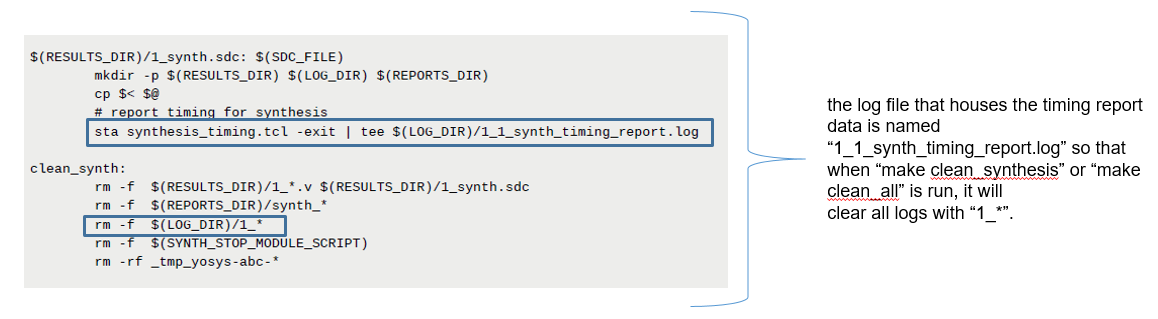
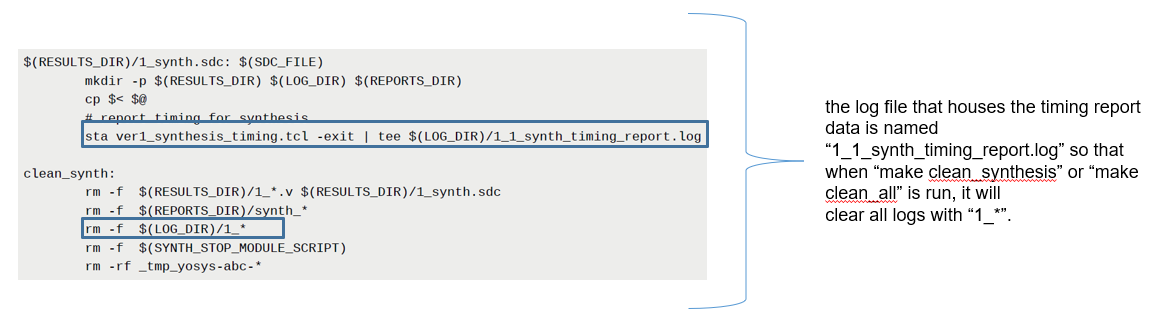
final submit

diff --git a/README.md b/README.md
@@ -74,12 +74,12 @@ After synthesis generate reports using:
 # form flow directory
 source ../setup_env.sh
 sta
-source scripts/ver1_synthesis_timing.tcl
+source ver1_synthesis_timing.tcl
 ````
 Script description:
-
+`flow/scripts/ver1_synthesis_timing.tcl` used in this version:
 ![plot](./readme_images/3.PNG)
-
+`flow/scripts/report_metrics_synthesis.tcl` which was modified to work with **OpenSTA**:
 ![plot](./readme_images/4.PNG)
 
 &nbsp;
@@ -113,7 +113,11 @@ Make synth
 ````
 Script description:
 
+* `flow/scripts/report_metrics.tcl` modifications to ensure it works for all physical design stages:
+
 ![plot](./readme_images/5.PNG)
+
+* `flow/Makefile` modifications done to ensure synthesis report are generated through make flow:
 
 ![plot](./readme_images/6.PNG)
 
@@ -147,11 +151,19 @@ source $source_tool >/dev/null
 ````
 Script description:
 
+* `flow/scripts/synthesis_timing.tcl` used to generate timing reports for synthesis stage in this version:
+
 ![plot](./readme_images/7.PNG)
 
+* `flow/Makefile` modifications to include the new `synthesis_timing.tcl and also remove hardcoded locations:
+ 
 ![plot](./readme_images/dynamic_make.PNG)
 
+* `~/.bashrc` modifications for local machine:
+
 ![plot](./readme_images/bashrc.PNG)
+
+* `flow/scripts/report_metrics.tcl` modifications to include path groups. `USE_GROUP_PATH` included in `flow/designs/asap7/<DESIGN_NICKNAME>/config.mk` switch needs to be toggled on:
 
 ![plot](./readme_images/8.PNG)
 
@@ -159,11 +171,15 @@ Script description:
 
 ### 1.c Final Output
 
-Using the modifications and scripts mentioned in version 3, all the desired results was acheived in log file `1_1_synth_timing_report.log`
+Using the modifications and scripts mentioned in version 3, all the desired results was acheived in log file `1_1_synth_timing_report.log`.
 
 ![plot](./readme_images/9.PNG)
 
+timing reports following path groups in log file after synthesis.
+
 ![plot](./readme_images/10.PNG)
+
+power reports generated after synthesis.
 
 ![plot](./readme_images/11.PNG)
 
@@ -237,7 +253,7 @@ export KLAYOUT_DRC_FILE = $(PLATFORM_DIR)/drc/asap7.lydrc
 6_drc_count.rpt
 6_drc.lyrdb
 ````
-* Using `6_drc.lyrdb` and `6_final.gds` we can explore drc violations in the design using **klayout**.
+* Using `6_drc.lyrdb` and `6_final.gds` we can explore drc violations in the design using **klayout**. A snippet of of **riscv32i** loaded in **klayout** after gds dump.
 
 ![plot](./readme_images/13.PNG)
 
